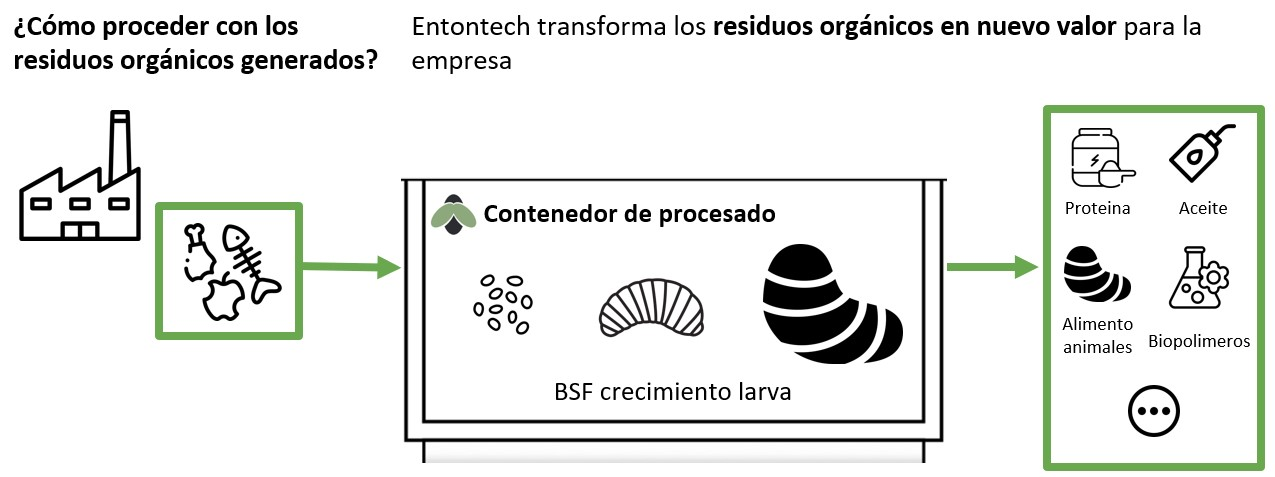
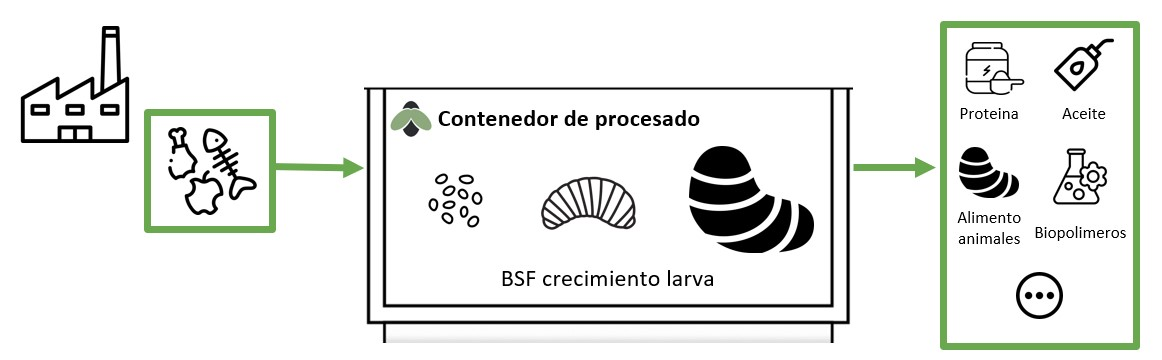
Añadiendo primero foto en el apartado Valor

Changed region(s): [[0.0, 0.0306, 0.9914, 1.0]]

diff --git a/public/en/valor/index.html b/public/en/valor/index.html
@@ -239,10 +239,10 @@
     
 
     <img src='https://entotechsolution.com/images/imageLoading.gif' data-srcset='
-/en/valor/pruebapiloto/pruebaPiloto_hua2e40b41f88b767300b3a3962767e308_96466_390x145_fill_q75_h2_box_center.webp 1x,
-/en/valor/pruebapiloto/pruebaPiloto_hua2e40b41f88b767300b3a3962767e308_96466_585x217_fill_q75_h2_box_center.webp 1.5x,
-/en/valor/pruebapiloto/pruebaPiloto_hua2e40b41f88b767300b3a3962767e308_96466_780x290_fill_q75_h2_box_center.webp 2x,
-/en/valor/pruebapiloto/pruebaPiloto_hua2e40b41f88b767300b3a3962767e308_96466_1170x435_fill_q75_h2_box_center.webp 3x,' alt='Images Not Available' height="400" width="100%" style="object-fit: Fill;" class="lazyload" >
+/en/valor/pruebapiloto/pruebaPiloto_huf2fcc028563aec8ec1210259d7d36b78_62391_390x120_fill_q75_h2_box_center.webp 1x,
+/en/valor/pruebapiloto/pruebaPiloto_huf2fcc028563aec8ec1210259d7d36b78_62391_585x180_fill_q75_h2_box_center.webp 1.5x,
+/en/valor/pruebapiloto/pruebaPiloto_huf2fcc028563aec8ec1210259d7d36b78_62391_780x240_fill_q75_h2_box_center.webp 2x,
+/en/valor/pruebapiloto/pruebaPiloto_huf2fcc028563aec8ec1210259d7d36b78_62391_1170x360_fill_q75_h2_box_center.webp 3x,' alt='Images Not Available' height="400" width="100%" style="object-fit: Fill;" class="lazyload" >
 
     
 
